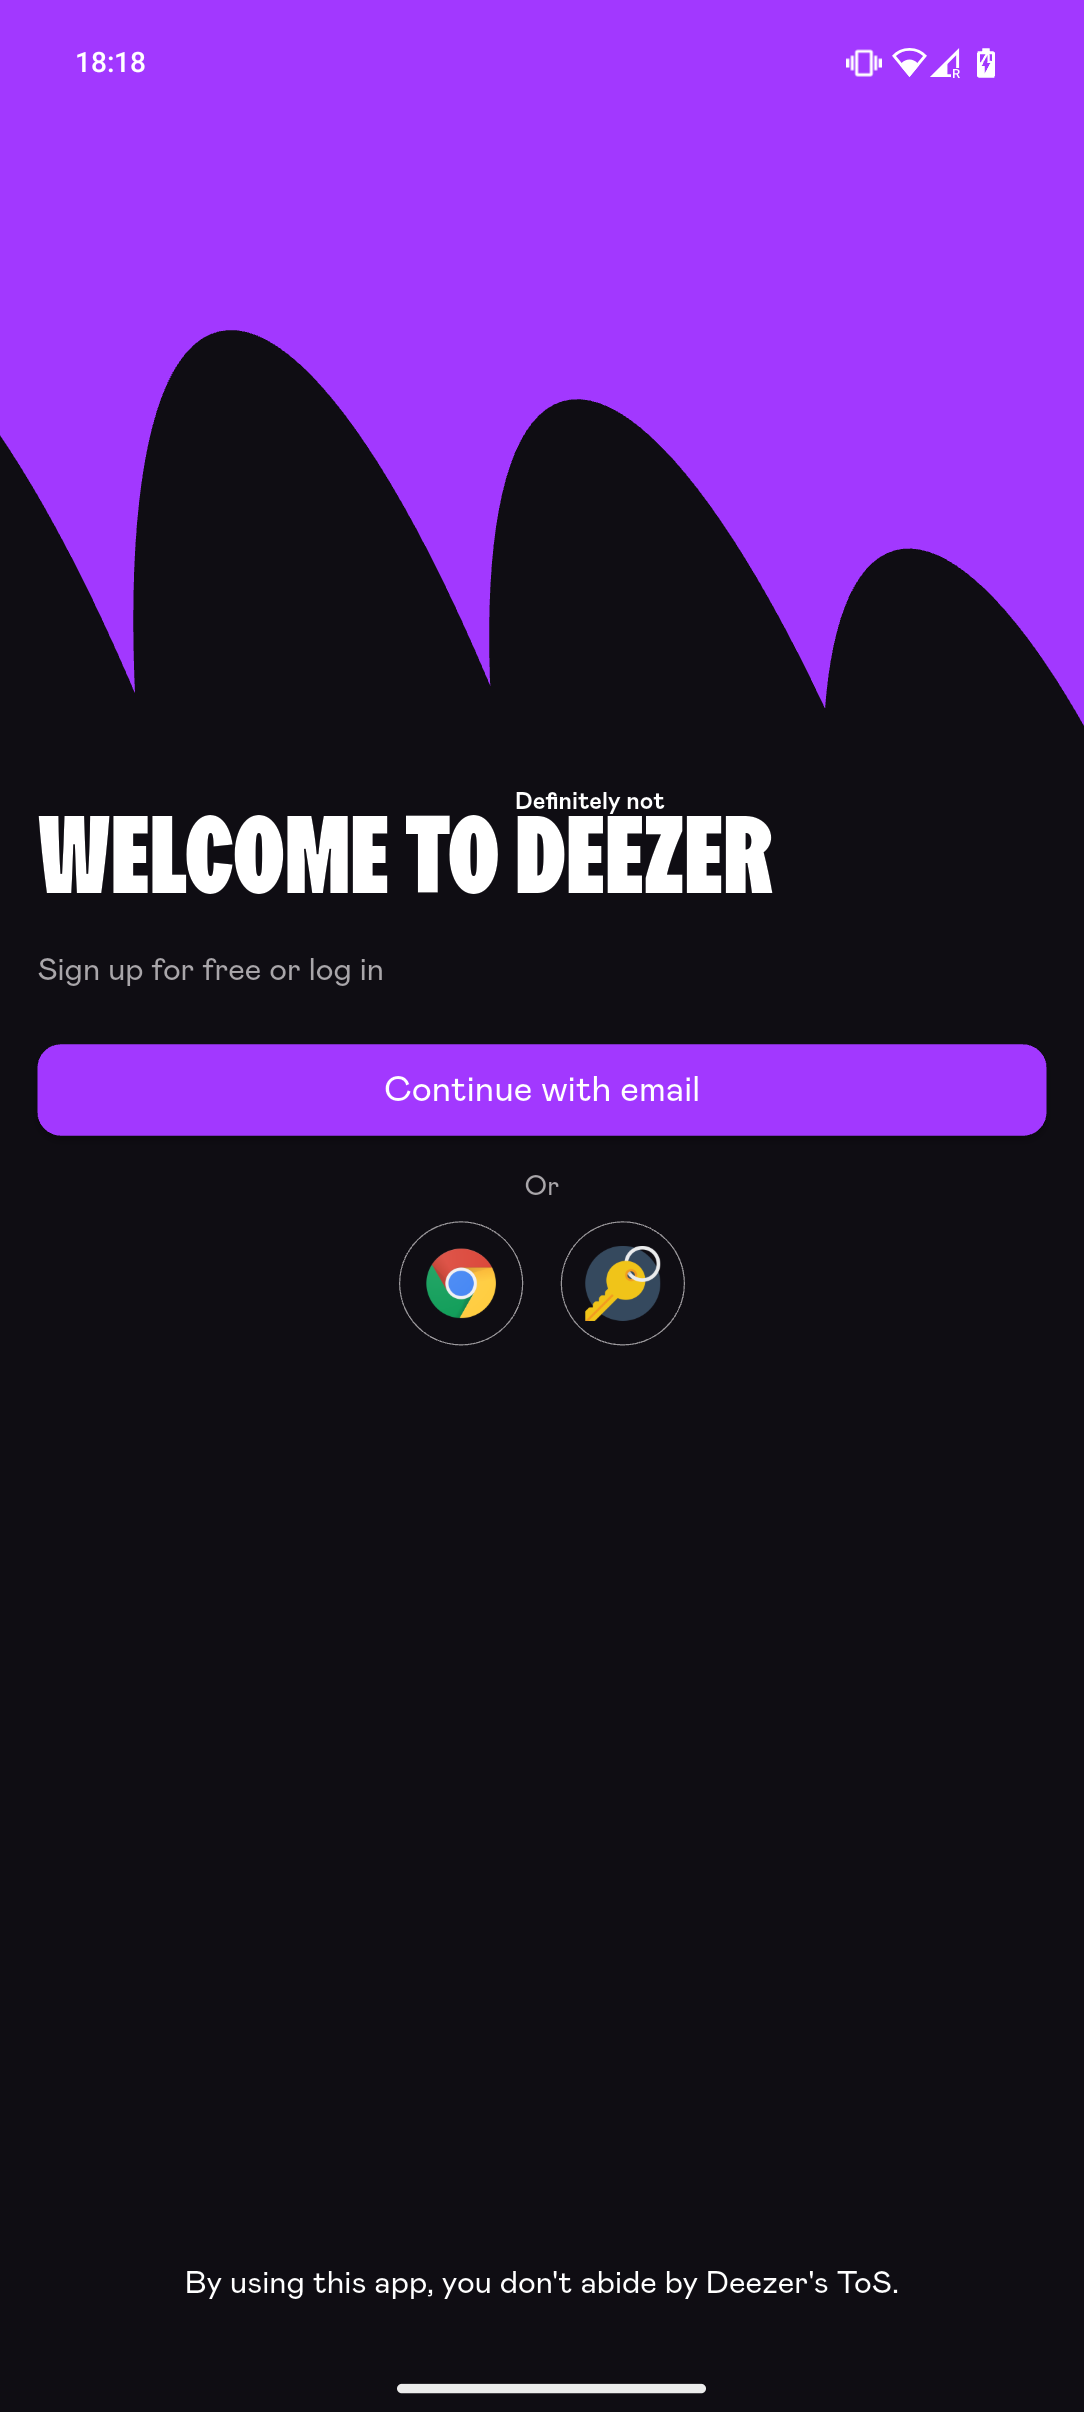
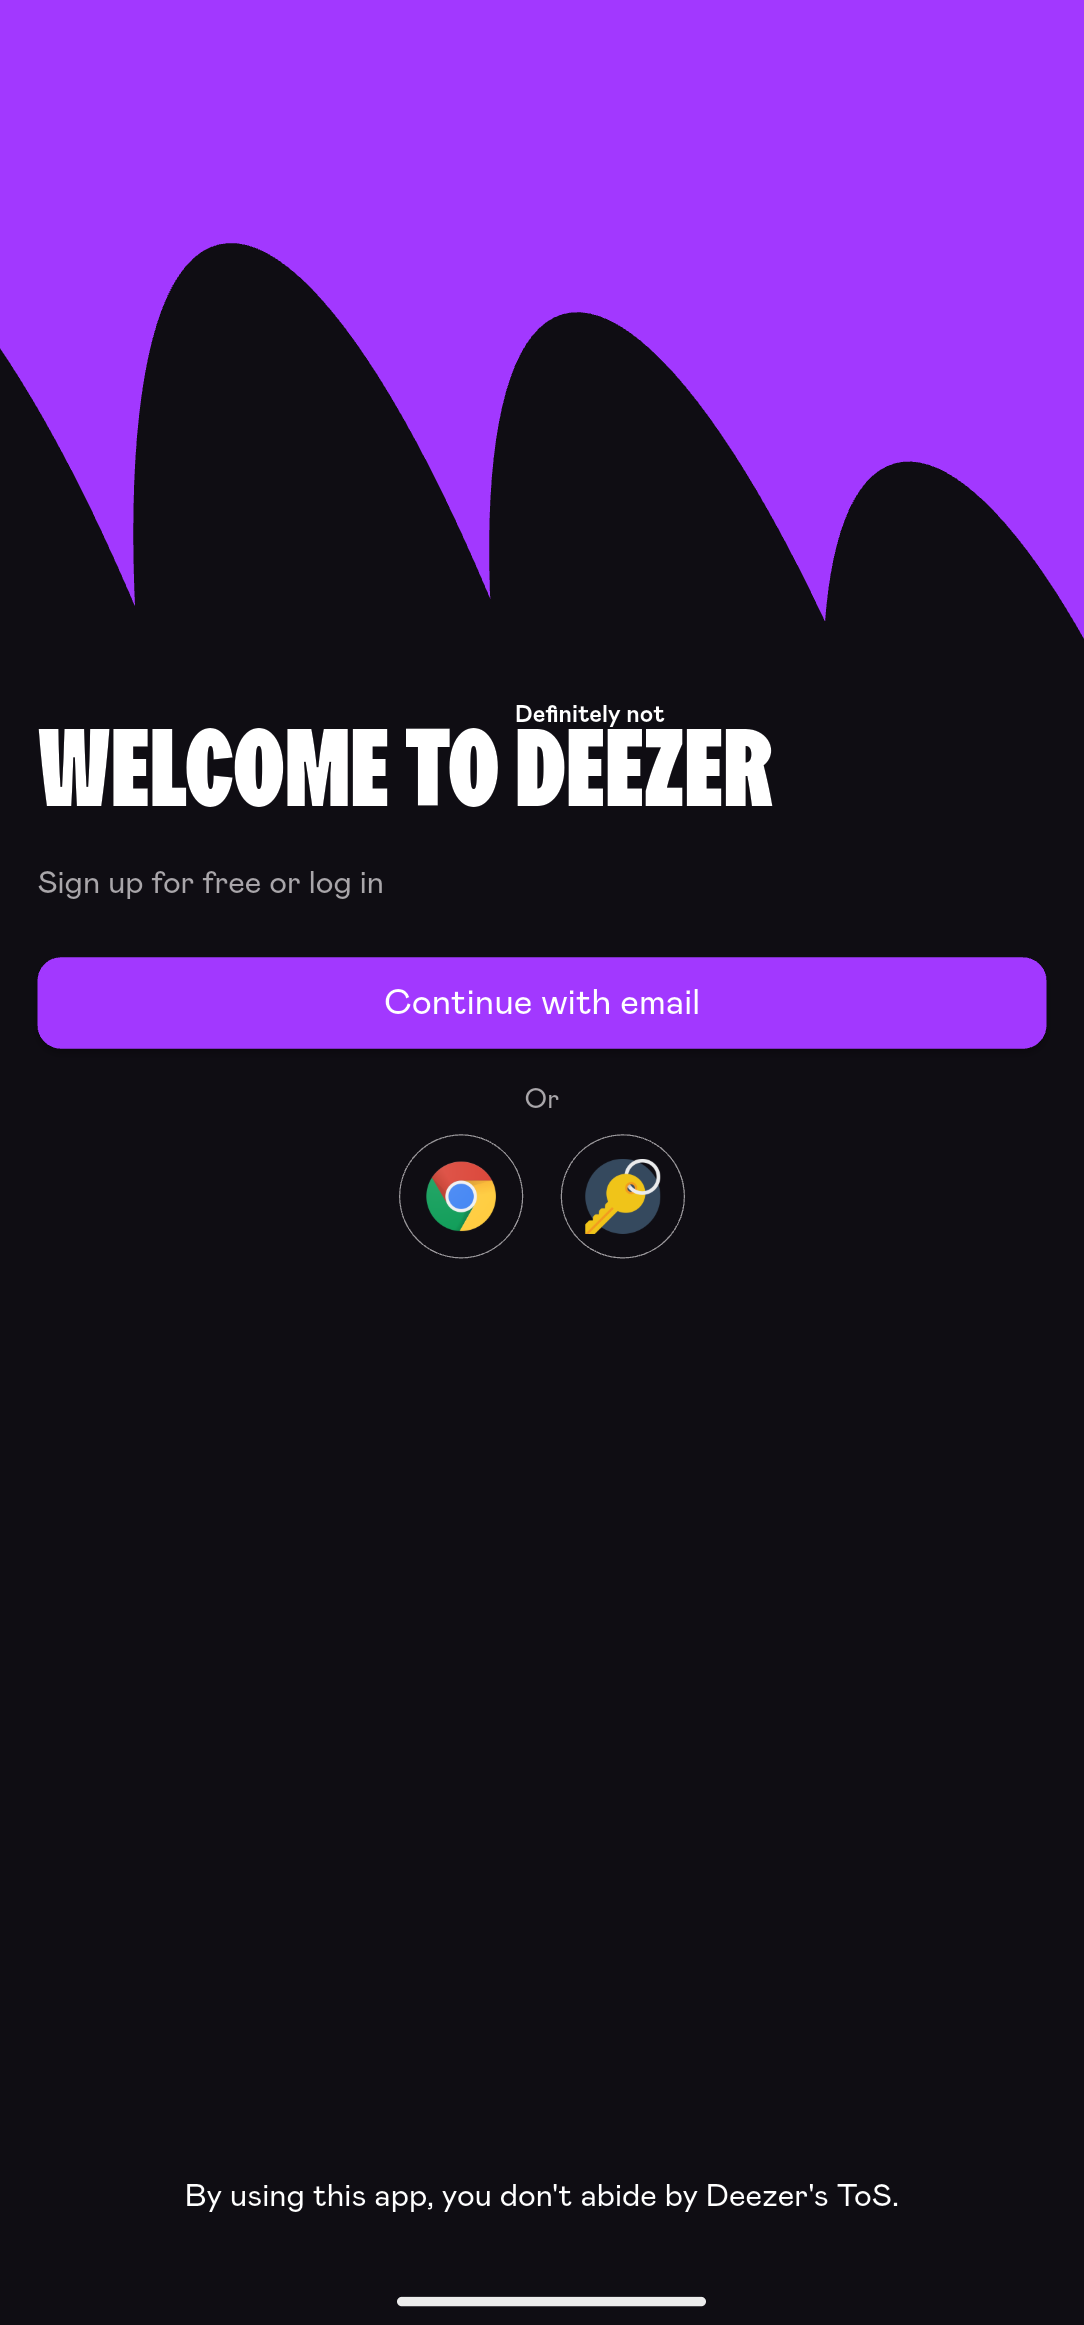
Minor update

diff --git a/lib/ui/login_screen.dart b/lib/ui/login_screen.dart
@@ -155,6 +155,7 @@ class _LoginWidgetState extends State<LoginWidget> {
 
   @override
   Widget build(BuildContext context) {
+    SystemChrome.setPreferredOrientations([DeviceOrientation.portraitUp]);
     //If arl is null, show loading
     if (settings.arl != null) {
       return const Scaffold(

diff --git a/README.md b/README.md
@@ -57,6 +57,7 @@ This project originates from [ReFreezer](https://github.com/DJDoubleD/ReFreezer)
 ## :star2: Bugs & features
 
 #### :building_construction: Upcoming features
+- Include the blind test functionality
 - Turn the mod into a skin for the official refreezer app
 
 #### :lady_beetle: Bugs
